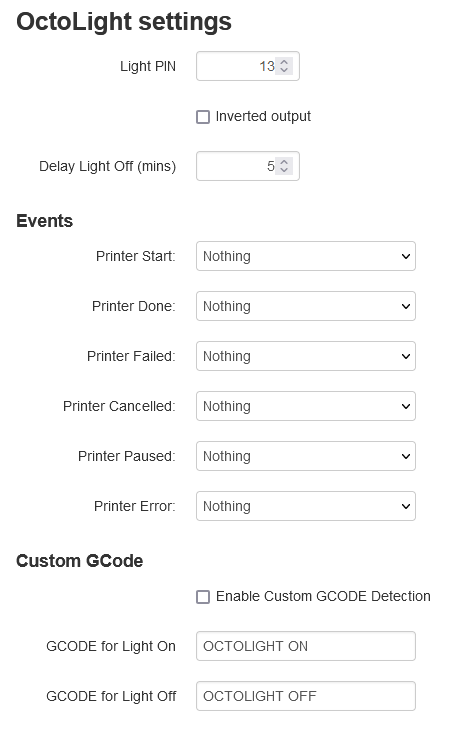
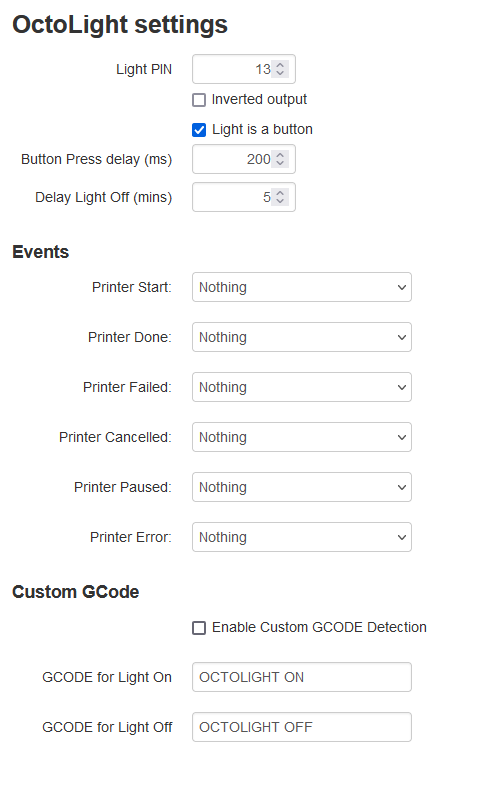
Added function to treat light pin as button
- Added function to toggle light pin like a button press
- Updated settings image
- Added delay textbox in settings for button press
- Added setting to enable function
- Updated README file

diff --git a/octoprint_octolight/__init__.py b/octoprint_octolight/__init__.py
@@ -46,6 +46,8 @@ class OctoLightPlugin(
 		return dict(
 			light_pin=13,
 			inverted_output=False,
+			toggle_output=False,
+			toggle_delay=200,
 			delay_off=5,
 
 			#Setup the default value for each event
@@ -85,7 +87,7 @@ class OctoLightPlugin(
 
 	def on_after_startup(self):
 		self.light_state = False
-
+		
 		self._logger.debug ("--------------------------------------------")
 		self._logger.debug ("OctoLight started, listening for GET request")
 		self._logger.debug (
@@ -121,6 +123,12 @@ class OctoLightPlugin(
 			self._identifier, dict(isLightOn=self.light_state)
 		)
 
+	def light_button_toggle(self):
+		GPIO.output(int(self._settings.get(["light_pin"])), GPIO.LOW)
+		self.delayed_toggle.cancel()
+		self.delayed_toggle = None
+
+
 	def light_toggle(self):
 		# Sets the GPIO every time, if user changed it in the settings.
 		GPIO.setup(int(self._settings.get(["light_pin"])), GPIO.OUT)
@@ -128,8 +136,13 @@ class OctoLightPlugin(
 		self.light_state = not self.light_state
 		self.stopTimer()
 
+		# Handles a toggle on and off as a button press
+		if self._settings.get(["toggle_output"]):
+			GPIO.output(int(self._settings.get(["light_pin"])), GPIO.HIGH)
+			self.delayed_toggle = RepeatedTimer(float(self._settings.get(["toggle_delay"])) / 1000, self.light_button_toggle)
+			self.delayed_toggle.start()
 		# Sets the light state depending on the inverted output setting (XOR)
-		if self.light_state ^ self._settings.get(["inverted_output"]):
+		elif self.light_state ^ self._settings.get(["inverted_output"]):
 			GPIO.output(int(self._settings.get(["light_pin"])), GPIO.HIGH)
 		else:
 			GPIO.output(int(self._settings.get(["light_pin"])), GPIO.LOW)
@@ -141,12 +154,12 @@ class OctoLightPlugin(
 		)
 
 	def light_on(self):
-		if not self.light_state:
+		if not self.light_state or self._settings.get(["toggle_output"]):
 			self.light_toggle()
 
 	def light_off(self):
 		self.stopTimer()
-		if self.light_state:
+		if self.light_state or self._settings.get(["toggle_output"]):
 			self.light_toggle()
 
 

diff --git a/setup.py b/setup.py
@@ -14,7 +14,7 @@ plugin_package = "octoprint_octolight"
 plugin_name = "OctoLight"
 
 # The plugin's version. Can be overwritten within OctoPrint's internal data via __plugin_version__ in the plugin module
-plugin_version = "0.1.8"
+plugin_version = "0.1.9"
 
 # The plugin's description. Can be overwritten within OctoPrint's internal data via __plugin_description__ in the plugin
 # module

diff --git a/README.md b/README.md
@@ -20,7 +20,14 @@ Currently, you can configure settings:
 	![Raspberry Pi GPIO](img/rpi_gpio.png)
 
 - `Inverted output`: If true, the output will be inverted
-	- Usage: if you have a light, that is turned off when voltage is applied to the pin (wired in negative logic), you should turn on this option, so the light isn't on when you reboot your Raspberry Pi.
+	- Usage: If you have a light, that is turned off when voltage is applied to the pin (wired in negative logic), you should turn on this option, so the light isn't on when you reboot your Raspberry Pi.
+
+- `Light is a button`: If true, the output will be treated as a button press
+	- Usage: This function allows OctoLight to toggle the Raspberry Pi pin on and off with a small delay to allow for lights that require a button press to change states.
+
+- `Button Press delay (ms)`: This sets a time out for how long a button press is, this is only used if `Light is a button` is enabled.
+	- Default value: 200
+	- Note: This value is in micro seconds
 
 - `Delay Light Off (mins)`: This sets a time out for when the light will automatically turn its self-off in an event
 	- Default value: 5
